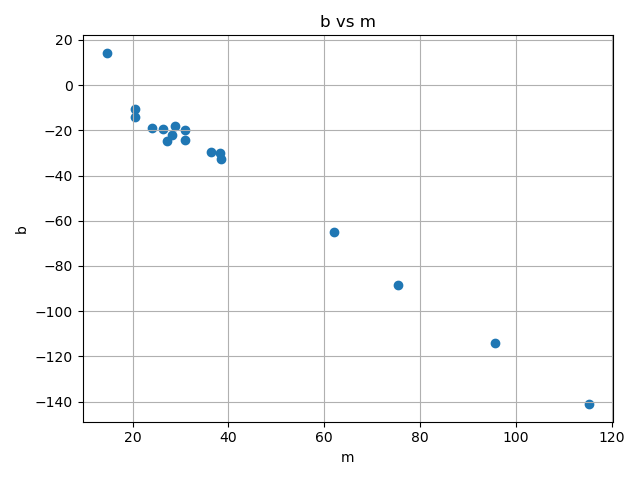
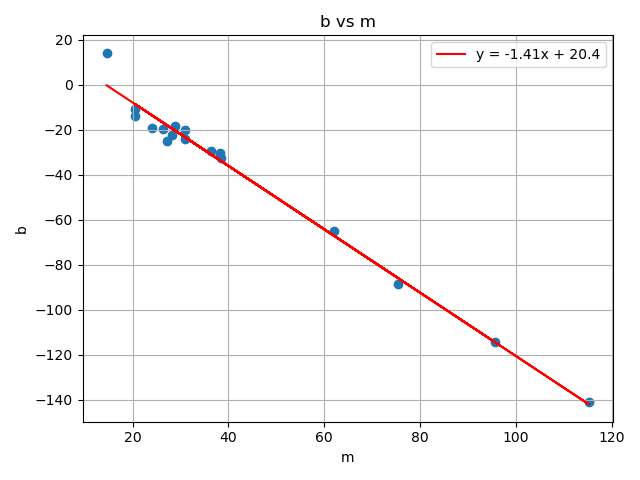
breakthrough! (?

diff --git a/analyze_points.py b/analyze_points.py
@@ -22,6 +22,7 @@ all_mean_dawdh = []
 all_mean_spped = []
 all_mean_aw = []
 all_aw_fit_par = []
+all_aw_and_h = []
 # process each csv file
 for points_list in points_lists:
     print('Computing derived quantities for file: ' + os.path.basename(points_list))
@@ -145,20 +146,9 @@ for points_list in points_lists:
     plt.savefig(curr_output_dir + '/dawdh_vs_h.png')
     plt.close()
 
-# common plots
-# # plot all mean dawdh vs event_id
-# fig = plt.figure()
-# all_mean_dawdh = np.array(all_mean_dawdh)
-# plt.plot(all_mean_dawdh[:,0], all_mean_dawdh[:,1].astype(float),'o--k')
-# plt.xticks(rotation=45)
-# plt.ylabel('Mean d(aw)/dh [deg/Rs]')
-# plt.xlabel('Event ID')
-# plt.title('Mean d(aw)/dh vs Event ID')
-# plt.tight_layout()
-# plt.grid()
-# plt.savefig(output_dir + '/mean_dawdh_vs_event_id.png')
-# plt.close()
+    all_aw_and_h.append([event_id, h, aw])
 
+#common plots
 # plot all mean speed vs event_id
 fig = plt.figure()
 all_mean_spped = np.array(all_mean_spped)   
@@ -203,42 +193,54 @@ plt.close()
 # scatter plot of all_aw_fit_par[:,1] vs all_aw_fit_par[:,2]
 fig = plt.figure()
 plt.scatter(all_aw_fit_par[:,1].astype(float), all_aw_fit_par[:,2].astype(float))
+m, b = np.polyfit(all_aw_fit_par[:,1].astype(float), all_aw_fit_par[:,2].astype(float), 1)
+plt.plot(all_aw_fit_par[:,1].astype(float), m*all_aw_fit_par[:,1].astype(float) + b, 'r',label='y = ' + str(round(m,2)) + 'x + ' + str(round(b,2)))
 plt.ylabel('b')
 plt.xlabel('m')
 plt.title('b vs m')
 plt.tight_layout()
 plt.grid()
+plt.legend()
 plt.savefig(output_dir + '/b_vs_m.png')
 plt.close()
 
 # scatter plot of all_aw_fit_par[:,1] vs all_aw_fit_par[:,2]
 fig = plt.figure()
-# computes the fit value at h=1
-aw_at_1rs = all_aw_fit_par[:,1].astype(float) + all_aw_fit_par[:,2].astype(float)
+ho=np.abs(m)+1
+aw_at_1rs = all_aw_fit_par[:,1].astype(float)*ho + all_aw_fit_par[:,2].astype(float)
 plt.scatter(all_aw_fit_par[:,1].astype(float), aw_at_1rs)
-plt.ylabel('aw at 1 Rs [deg]')
+# fits a line
+m, b = np.polyfit(all_aw_fit_par[:,1].astype(float), aw_at_1rs, 1)
+plt.plot(all_aw_fit_par[:,1].astype(float), m*all_aw_fit_par[:,1].astype(float) + b, 'r',label='y = ' + str(round(m,2)) + 'x + ' + str(round(b,2))) 
+# ho in ther labels with decimal 2 digits
+plt.ylabel('aw at h0=%s Rs [deg]' % str(round(ho,2)))
 plt.xlabel('mean daw/dh [deg/Rs]')
 plt.tight_layout()
+plt.legend()
 plt.grid()
-plt.savefig(output_dir + '/aw_at_1rs_vs_dawdh.png')
+plt.savefig(output_dir + '/aw_at_%s_vs_dawdh.png' % str(round(ho,2)))
 plt.close()
-print('Done!')
 
-# scatter plot of all_aw_fit_par[:,1] vs all_aw_fit_par[:,2]
+# all_aw_and_h i a sinlge plot
 fig = plt.figure()
-# computes the fit value at h=1
-aw_at_1rs = all_aw_fit_par[:,1].astype(float)*1.25 + all_aw_fit_par[:,2].astype(float)
-plt.scatter(all_aw_fit_par[:,1].astype(float), aw_at_1rs)
-# fit a 
-plt.ylabel('aw at 1.25 Rs [deg]')
-plt.xlabel('mean daw/dh [deg/Rs]')
+for i in range(0,len(all_aw_and_h)):
+    plt.plot(all_aw_and_h[i][1], all_aw_and_h[i][2],'o',label=all_aw_and_h[i][0])
+plt.ylabel('Angular width [deg]')
+plt.xlabel('Height [Rs]')
+plt.title('Angular width vs Height')
+plt.legend()
+h=np.linspace(0.5,2.4,10)
+for i in range(0,len(all_aw_and_h)):
+    m = all_aw_fit_par[i][1].astype(float)
+    b = all_aw_fit_par[i][2].astype(float)
+    plt.plot(h, m*h+ b, label=all_aw_and_h[i][0],linewidth=0.5)
+plt.ylabel('Angular width [deg]')
+plt.xlabel('Height [Rs]')
+plt.title('Angular width vs Height')
 plt.tight_layout()
 plt.grid()
-plt.savefig(output_dir + '/aw_at_1.25rs_vs_dawdh.png')
+plt.savefig(output_dir + '/all_aw_vs_h_fit_lines.png')
 plt.close()
-print('Done!')
-
-
 
 
 
